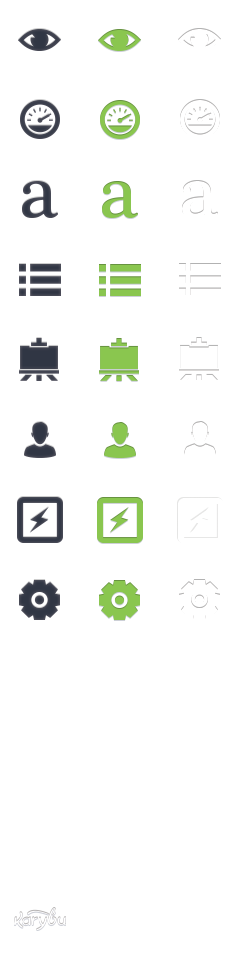
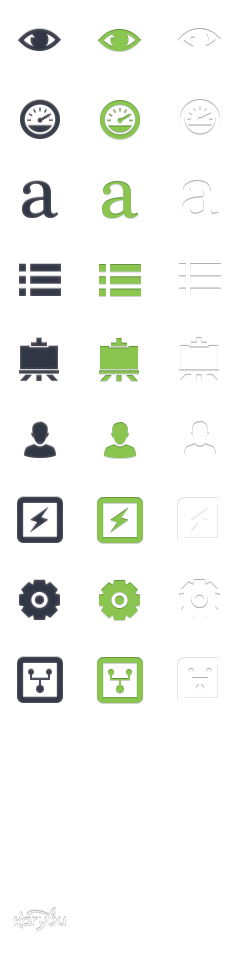
[#48656571] Done.

Changed region(s): [[0.0583, 0.6562, 0.2625, 0.75], [0.3792, 0.6875, 0.6125, 0.75], [0.7292, 0.6875, 0.7583, 0.7188]]

diff --git a/modules/admin/tpl/css/admin.css b/modules/admin/tpl/css/admin.css
@@ -200,6 +200,7 @@ p.cache {
 .big-icon {
     background-image:url("../img/big-nav-icons.png");
     background-repeat:no-repeat;
+    background-position: 0 -640px;
     width:80px;
     height:80px;
 }

diff --git a/modules/admin/tpl/css/krb.css b/modules/admin/tpl/css/krb.css
@@ -1630,7 +1630,7 @@ margin:-1px;
 
 
 
-.wfsr {
+.wfsr_fog .wfsr {
     display:none;
     position:absolute;
     position:fixed;
